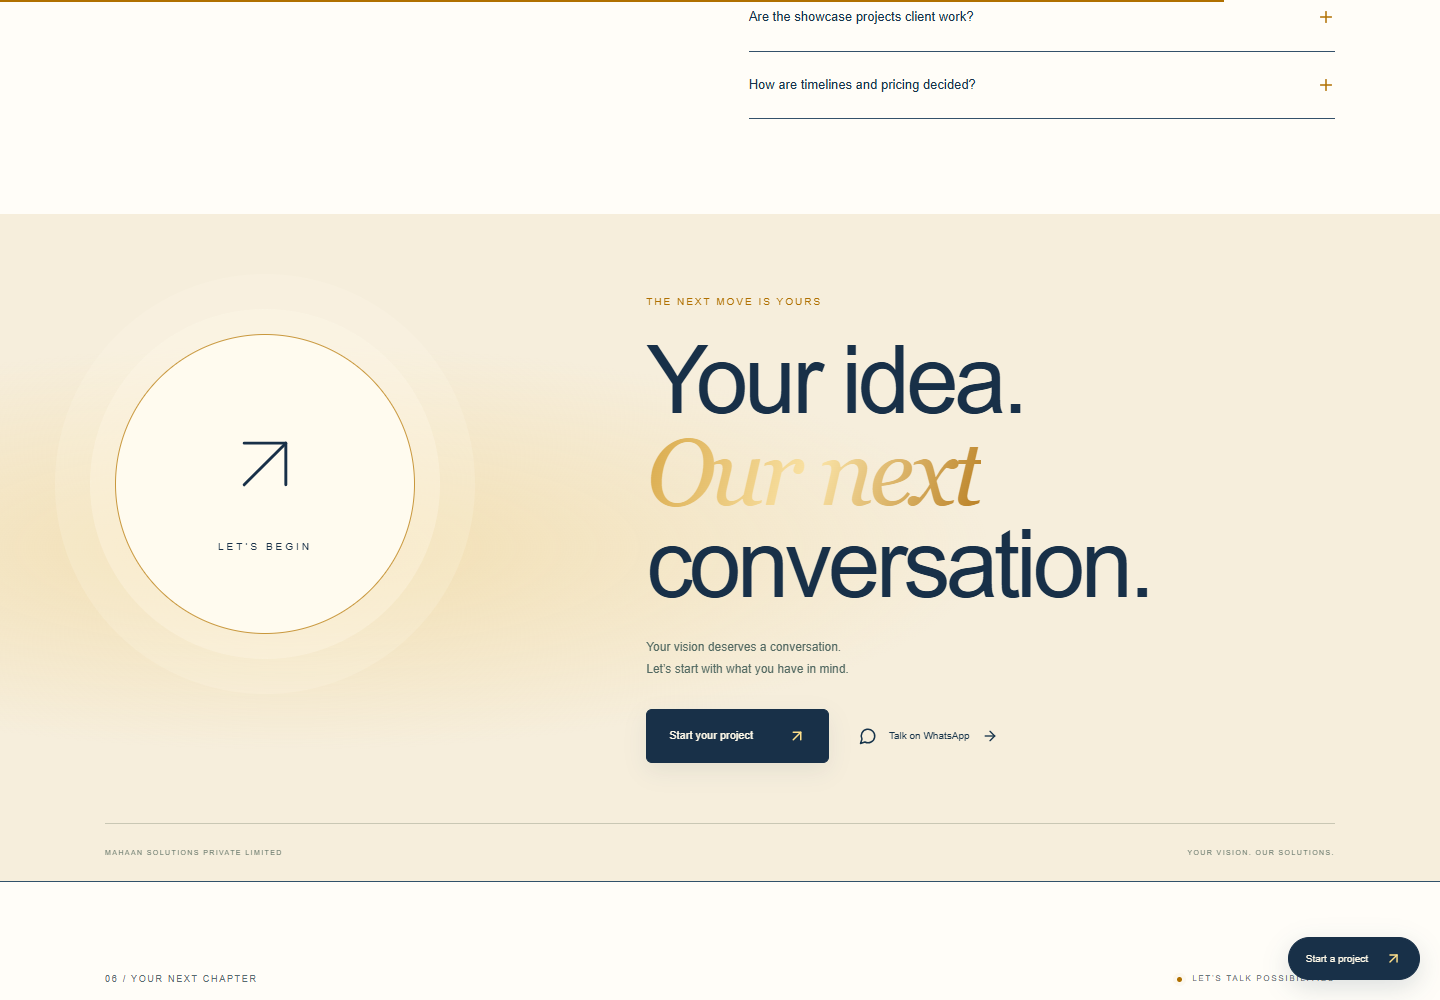
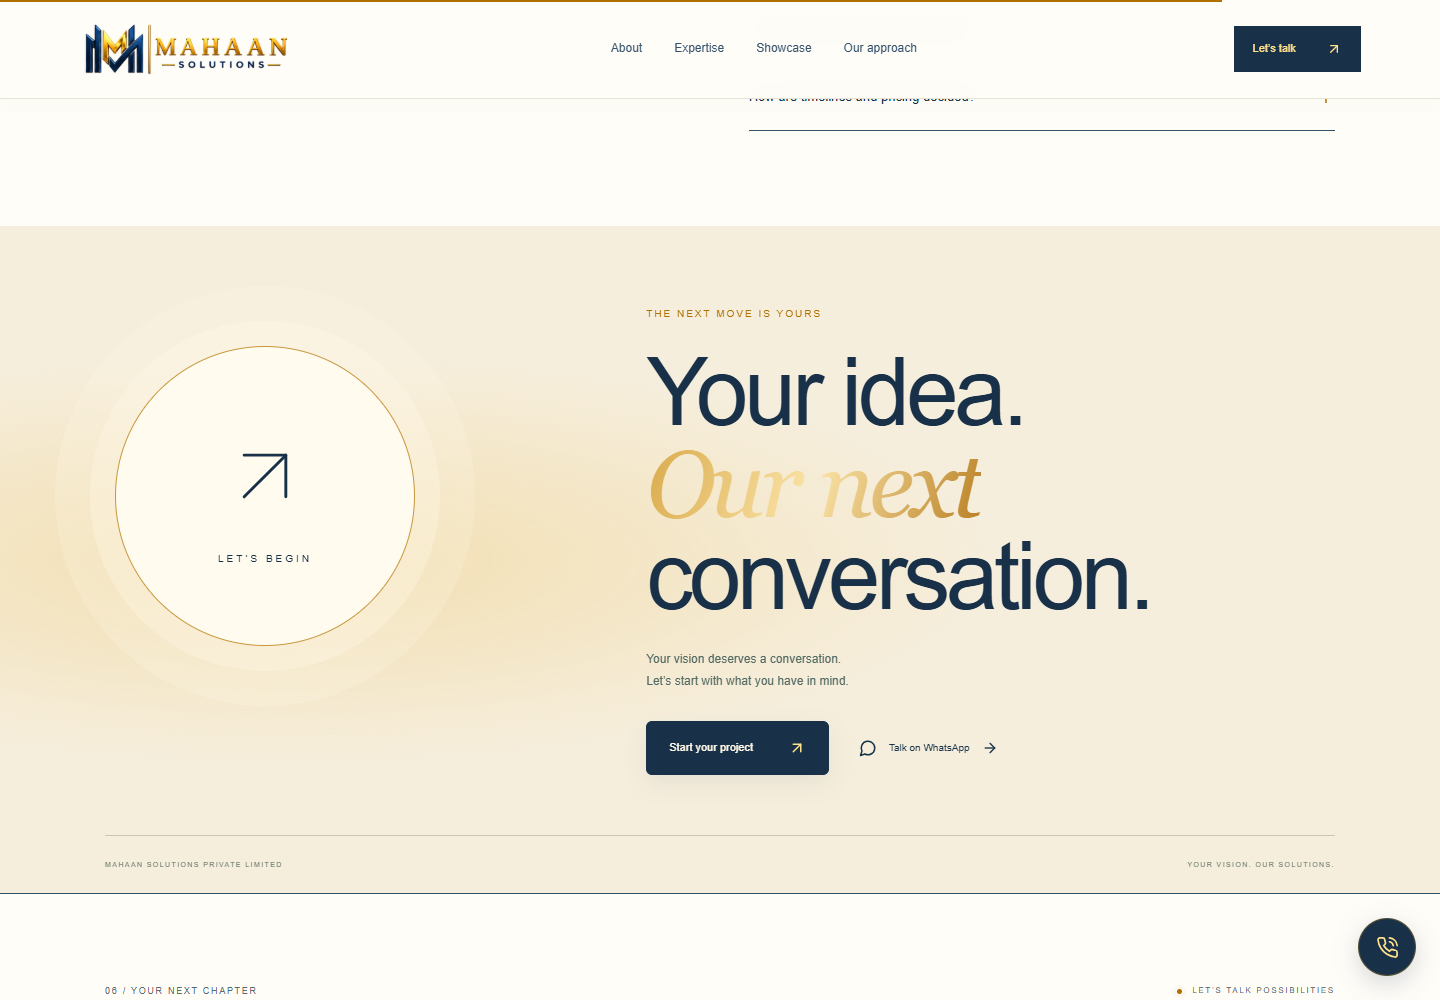
Update Site source

diff --git a/src/components/Experience.tsx b/src/components/Experience.tsx
@@ -3,6 +3,7 @@ import { useEffect, useState, useRef } from 'react';
 import { ArrowUpRight, ArrowRight, ArrowDown, Code2, Orbit, Workflow, Sparkles, Target, ChartNoAxesCombined, Plus, Minus, X, Check, MoveUpRight } from 'lucide-react';
 import Nav from './Nav';
 import Footer from './Footer';
+import FloatingCall from './FloatingCall';
 import EnquiryForm from './EnquiryForm';
 import { steps, concepts } from '@/data/company';
 import HomeHero from './HomeHero';
@@ -25,7 +26,7 @@ export default function Experience(){
  <CompanyPrinciples/>
  <section className="faq-section section-pad"><div><span className="eyebrow">A LITTLE MORE CLARITY</span><h2>Good questions.<br/><em>Clear answers.</em></h2></div><div className="faq-list">{faqs.map(([q,a],i)=><div className={`faq-item ${faq===i?'expanded':''}`} key={q}><h3><button aria-expanded={faq===i} aria-controls={`faq-${i}`} onClick={()=>setFaq(faq===i?null:i)}><span>{q}</span>{faq===i?<Minus size={18}/>:<Plus size={18}/>}</button></h3><div id={`faq-${i}`} hidden={faq!==i}><p>{a}</p></div></div>)}</div></section>
  <CompanyClosing/>
- <section className="contact section-pad" id="contact"><div className="section-label"><span>06 / YOUR NEXT CHAPTER</span><span className="contact-dot"><span/> LET’S TALK POSSIBILITIES</span></div><div className="contact-layout"><div className="contact-copy"><h2>Have a vision?<br/>Let’s make<br/><em>the next move.</em><ArrowUpRight className="contact-arrow"/></h2><p>A bold idea. A business challenge. A new beginning.<br/>Tell us what’s on your mind.</p><div className="direct-contact"><a href="mailto:BHANU8651@GMAIL.COM">BHANU8651@GMAIL.COM <ArrowUpRight size={16}/></a><a href="tel:+919959929328">+91 99599 29328 <ArrowUpRight size={16}/></a><a href="https://wa.me/919959929328" target="_blank" rel="noopener noreferrer">Chat on WhatsApp <ArrowUpRight size={16}/></a></div><div className="contact-bottom"><span>YOUR VISION.</span><span>OUR SOLUTIONS.</span><div className="contact-mark">✳</div></div></div><EnquiryForm/></div></section></main><Footer/><a href="#contact" className="floating-contact" aria-label="Start a project">Start a project <ArrowUpRight size={17}/></a>
+ <section className="contact section-pad" id="contact"><div className="section-label"><span>06 / YOUR NEXT CHAPTER</span><span className="contact-dot"><span/> LET’S TALK POSSIBILITIES</span></div><div className="contact-layout"><div className="contact-copy"><h2>Have a vision?<br/>Let’s make<br/><em>the next move.</em><ArrowUpRight className="contact-arrow"/></h2><p>A bold idea. A business challenge. A new beginning.<br/>Tell us what’s on your mind.</p><div className="direct-contact"><a href="mailto:BHANU8651@GMAIL.COM">BHANU8651@GMAIL.COM <ArrowUpRight size={16}/></a><a href="tel:+919959929328">+91 99599 29328 <ArrowUpRight size={16}/></a><a href="https://wa.me/919959929328" target="_blank" rel="noopener noreferrer">Chat on WhatsApp <ArrowUpRight size={16}/></a></div><div className="contact-bottom"><span>YOUR VISION.</span><span>OUR SOLUTIONS.</span><div className="contact-mark">✳</div></div></div><EnquiryForm/></div></section></main><Footer/><FloatingCall/>
  {project&&<ProjectDialog project={project} onClose={()=>setProject(null)}/>}</FounderVoiceProvider>
 }
 function ProjectDialog({project,onClose}:{project:typeof concepts[number];onClose:()=>void}){const ref=useRef<HTMLDivElement>(null);useEffect(()=>{const old=document.activeElement as HTMLElement;const el=ref.current;el?.querySelector<HTMLButtonElement>('button')?.focus();const trap=(e:KeyboardEvent)=>{if(e.key!=='Tab')return;const items=el?.querySelectorAll<HTMLElement>('button,a[href]');if(!items?.length)return;const first=items[0],last=items[items.length-1];if(e.shiftKey&&document.activeElement===first){e.preventDefault();last.focus()}else if(!e.shiftKey&&document.activeElement===last){e.preventDefault();first.focus()}};el?.addEventListener('keydown',trap);return()=>{el?.removeEventListener('keydown',trap);old?.focus()}},[]);return <div className="dialog-backdrop" onClick={onClose}><div className="project-dialog" ref={ref} role="dialog" aria-modal="true" aria-labelledby="dialog-title" onClick={e=>e.stopPropagation()}><button className="dialog-close circle-button" onClick={onClose} aria-label="Close project preview"><X/></button><span className="eyebrow">ILLUSTRATIVE DESIGN CONCEPT / {project.id}</span><h2 id="dialog-title">{project.title}</h2><p>{project.text}</p><div className="concept-details"><span><Check size={16}/> Original portfolio exploration</span><span><Check size={16}/> No client or results claimed</span></div><a href="#contact" className="button button-gold" onClick={onClose}>Discuss a similar direction <ArrowUpRight size={18}/></a></div></div>}

diff --git a/src/components/Nav.tsx b/src/components/Nav.tsx
@@ -1,10 +1,11 @@
 'use client';
 import Link from 'next/link';
-import { useState, useEffect } from 'react';
+import { useState, useEffect, useRef } from 'react';
 import { ArrowUpRight, Menu, X } from 'lucide-react';
 export function Mark(){return <img className="brand-logo" src="/images/brand/mahaan-solutions.webp" alt="Mahaan Solutions — navy and gold logo"/>}
 export default function Nav(){
- const [open,setOpen]=useState(false);
+ const [open,setOpen]=useState(false);const header=useRef<HTMLElement>(null);
+ useEffect(()=>{const el=header.current;if(!el)return;const update=()=>document.documentElement.style.setProperty('--nav-height',`${el.getBoundingClientRect().height}px`);update();const observer=new ResizeObserver(update);observer.observe(el);return()=>observer.disconnect()},[]);
  useEffect(()=>{const handler=(e:KeyboardEvent)=>{if(e.key==='Escape')setOpen(false)};window.addEventListener('keydown',handler);return()=>window.removeEventListener('keydown',handler)},[]);
- return <header className="navigation"><Link href="/" className="brand" aria-label="Mahaan Solutions home"><Mark/></Link><nav aria-label="Main navigation" className={open?'nav-links is-open':'nav-links'} id="main-navigation">{[['About','/#about'],['Expertise','/#expertise'],['Showcase','/#showcase'],['Our approach','/#approach']].map(([label,href])=><Link key={label} href={href} onClick={()=>setOpen(false)}>{label}</Link>)}<Link className="mobile-talk" href="/#contact" onClick={()=>setOpen(false)}>Let’s talk <ArrowUpRight size={16}/></Link></nav><Link href="/#contact" className="nav-cta">Let’s talk <ArrowUpRight size={16}/></Link><button className="menu-toggle" aria-label={open?'Close navigation':'Open navigation'} aria-controls="main-navigation" aria-expanded={open} onClick={()=>setOpen(!open)}>{open?<X/>:<Menu/>}</button></header>
+ return <header ref={header} className="navigation"><Link href="/" className="brand" aria-label="Mahaan Solutions home"><Mark/></Link><nav aria-label="Main navigation" className={open?'nav-links is-open':'nav-links'} id="main-navigation">{[['About','/#about'],['Expertise','/#expertise'],['Showcase','/#showcase'],['Our approach','/#approach']].map(([label,href])=><Link key={label} href={href} onClick={()=>setOpen(false)}>{label}</Link>)}<Link className="mobile-talk" href="/#contact" onClick={()=>setOpen(false)}>Let’s talk <ArrowUpRight size={16}/></Link></nav><Link href="/#contact" className="nav-cta">Let’s talk <ArrowUpRight size={16}/></Link><button className="menu-toggle" aria-label={open?'Close navigation':'Open navigation'} aria-controls="main-navigation" aria-expanded={open} onClick={()=>setOpen(!open)}>{open?<X/>:<Menu/>}</button></header>
 }

diff --git a/src/styles/navigation-polish.css b/src/styles/navigation-polish.css
@@ -1,0 +1,2 @@
+/* One sticky navigation offset; section padding is subtracted exactly once. */
+:root{--nav-height:99px;--anchor-gap:20px}.navigation{position:sticky;top:0;z-index:40;background:#fffdf8f5;backdrop-filter:blur(16px);box-shadow:0 3px 16px #18304805}.nav-links{top:100%}.section-pad{--section-inset:90px}html{scroll-padding-top:calc(var(--nav-height) + var(--anchor-gap))}:is(#about,#expertise,#showcase,#approach,#founder,#contact){scroll-margin-top:calc(-1 * var(--section-inset,0px))}.floating-call{position:fixed;right:24px;bottom:max(24px,env(safe-area-inset-bottom));z-index:35;width:58px;height:58px;display:grid;place-items:center;padding:0;border-radius:50%;background:var(--brand-navy,#183048);color:#ffe08b;border:1px solid #c38b1659;box-shadow:0 8px 25px #18304830;transition:transform .2s,box-shadow .2s,background .2s;animation:call-appear .25s ease both}.floating-call[hidden]{display:none}.floating-call:hover{transform:translateY(-3px);background:#254760;box-shadow:0 12px 30px #18304840}.floating-call:active{transform:scale(.95)}.floating-call:focus-visible{outline:3px solid var(--gold-text,#945800);outline-offset:5px}.voice-tour-dock{z-index:36}@keyframes call-appear{from{opacity:0;transform:translateY(12px) scale(.9)}to{opacity:1;transform:none}}@media(max-width:1100px){.section-pad{--section-inset:70px}}@media(max-width:760px){:root{--nav-height:80px;--anchor-gap:16px}.section-pad{--section-inset:55px}.floating-call{width:54px;height:54px;right:18px;bottom:max(18px,env(safe-area-inset-bottom))}.navigation .nav-links{top:100%;max-height:calc(100dvh - var(--nav-height));overflow-y:auto}.nav-links a{min-height:30px}}@media(prefers-reduced-motion:reduce){html{scroll-behavior:auto}.floating-call{animation:none;transition:none}}

diff --git a/src/components/FloatingCall.tsx b/src/components/FloatingCall.tsx
@@ -1,0 +1,7 @@
+'use client';
+import {useEffect,useState} from 'react';
+import {PhoneCall} from 'lucide-react';
+export default function FloatingCall(){const [visible,setVisible]=useState(false);
+ useEffect(()=>{const hero=document.getElementById('home');if(!hero)return;let observer:IntersectionObserver;const watch=()=>{observer?.disconnect();const navHeight=document.querySelector('.navigation')?.getBoundingClientRect().height||0;observer=new IntersectionObserver(([entry])=>setVisible(!entry.isIntersecting&&entry.boundingClientRect.bottom<=navHeight+1),{rootMargin:`-${navHeight}px 0px 0px 0px`,threshold:0});observer.observe(hero)};watch();window.addEventListener('resize',watch);return()=>{observer.disconnect();window.removeEventListener('resize',watch)}},[]);
+ return <a href="tel:+919959929328" className="floating-call" hidden={!visible} aria-label="Call Mahaan Solutions on +91 99599 29328" title="Call +91 99599 29328"><PhoneCall size={23} strokeWidth={1.8} aria-hidden="true"/></a>;
+}

diff --git a/src/app/layout.tsx b/src/app/layout.tsx
@@ -4,6 +4,7 @@ import '@/styles/brand-v3.css';
 import '@/styles/light-editorial.css';
 import '@/styles/editorial-experience.css';
 import '@/styles/brand-palette.css';
+import '@/styles/navigation-polish.css';
 export const metadata: Metadata = {
   metadataBase: new URL(process.env.NEXT_PUBLIC_SITE_URL || 'http://localhost:3000'),
   title:{default:'Mahaan Solutions — Your Vision. Our Solutions.', template:'%s | Mahaan Solutions'},

diff --git a/docs/NAVIGATION-UPDATE.md b/docs/NAVIGATION-UPDATE.md
@@ -1,0 +1,7 @@
+# Navigation and floating call control
+
+The previous text widget is replaced by FloatingCall.tsx: an icon-only circular link to tel:+919959929328. It is hidden while the home hero is visible beneath the sticky navigation, appears after the hero passes out of view, and hides when returning. The link has an accessible phone label and tooltip; it opens the device's phone handler and does not initiate a call without the customer's action.
+
+The header is sticky. ResizeObserver publishes its actual height to --nav-height. Global scroll padding accounts for the header plus a small reading gap; section scroll margins subtract the section's existing top padding so it is not added twice. Desktop/tablet gap: 20px; mobile: 16px. Mobile menus remain below the header and scroll independently if needed.
+
+scripts/navigation-qa.cjs exercises all four main links and the contact link at 1440, 1024 and 390px widths, verifies the call link, circular shape, visibility threshold and return behavior, and checks overflow and browser errors. It does not place a phone call. docs/navigation-qa.json records actual measured gaps.
